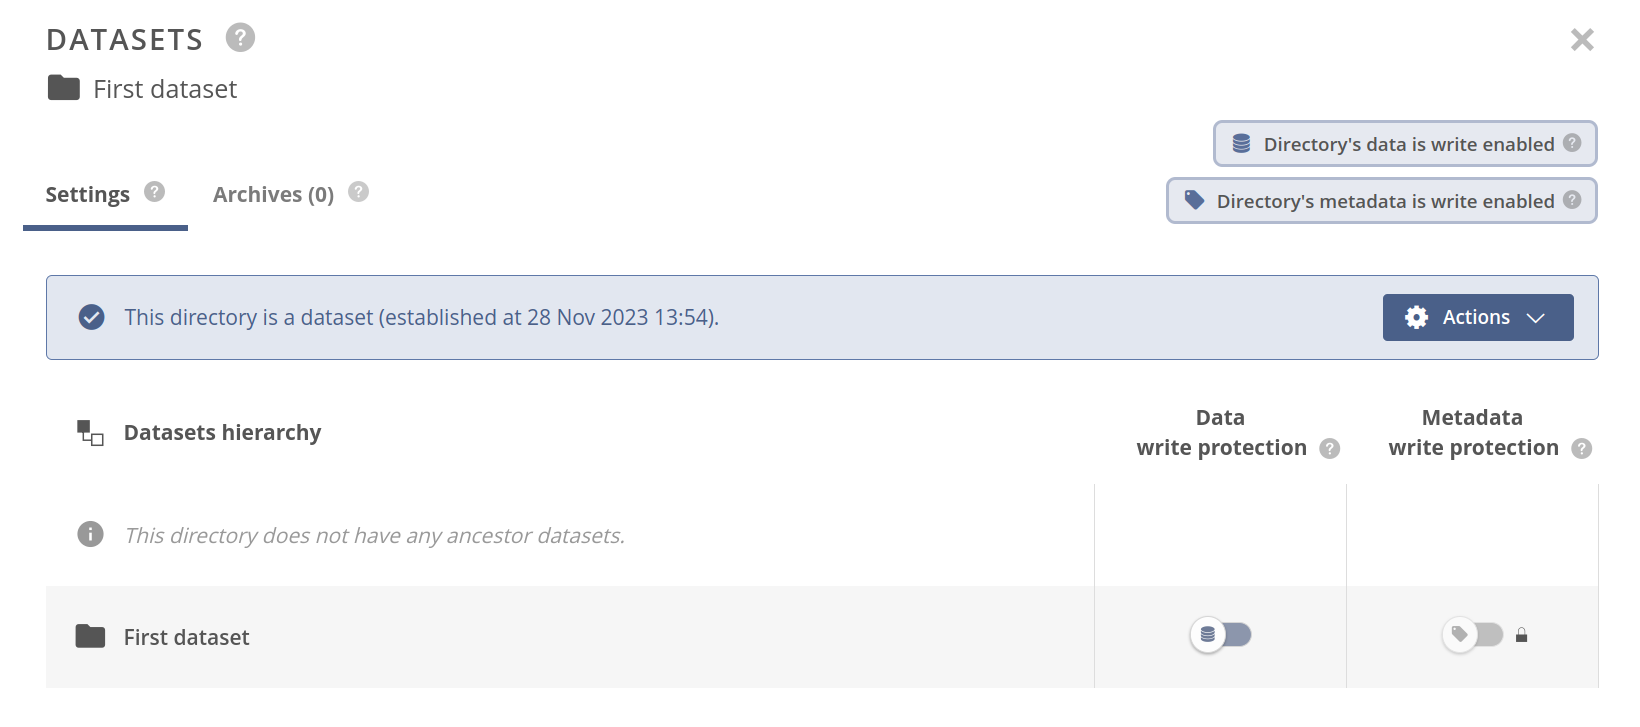
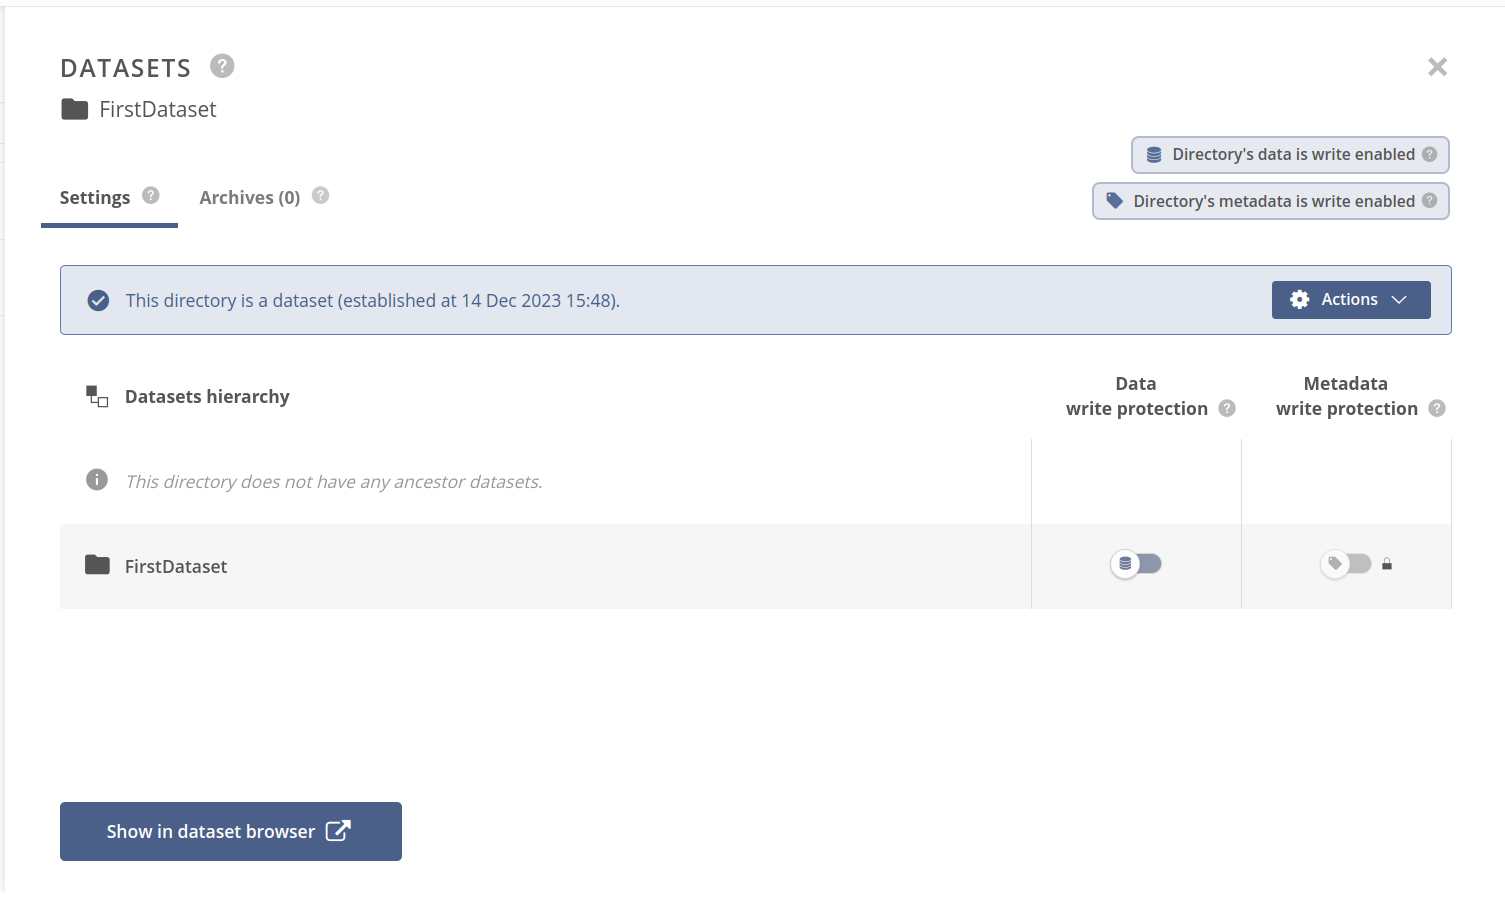
VFS-11563 Finished datasets docs

diff --git a/docs/user-guide/datasets.md b/docs/user-guide/datasets.md
@@ -1,7 +1,6 @@
 # Datasets
 
 [toc][]
-<!-- FIXME: zrobić ticket i podlinkować do napisania doksów nowej wersji widoku -->
 
 ## Overview
 
@@ -10,22 +9,25 @@ representing data collections relevant to them. They can be used to organize dat
 a space in a systematic way.
 
 Datasets offer additional features, compared to regular files and directories:
-- optional data and metadata write [protection][],
-- [dataset structure][hierarchy] tracking using the [dataset browser][Datasets, Archives tab],
-- ability to [create persistent snapshots][create archive] of the physical dataset contents —
-  [archives][].
+* optional data and metadata write [protection][],
+* [dataset structure][hierarchy] tracking using the [dataset browser][Datasets, Archives tab],
+* ability to [create persistent snapshots][create archive] of the physical dataset
+  contents — [archives][].
 
-Datasets can be nested, allowing users to compose arbitrary [hierarchical][hierarchy] structures.
+Datasets can be nested, allowing users to compose arbitrary [hierarchical][hierarchy]
+structures.
 
 ![dataset-hierarchy][]
 
-The diagram above shows the filesystem tree, where some of the directories are marked as datasets (_Experiment A_ and _Results_). Regular files also can be marked as datasets (_Statistics.csv_). The file or directory is marked as a dataset by [establishing][establishing datasets] the datasets on it.
+The diagram above shows the filesystem tree, where some of the directories are marked as
+datasets (_Experiment A_ and _Results_). Regular files also can be marked as datasets
+(_Statistics.csv_). The file or directory is marked as a dataset by
+[establishing][establishing datasets] the datasets on it.
 
 ## Establishing datasets
-<!-- FIXME: w archives mam wypunktowanie -->
-To establish a dataset, navigate to the [file browser][], open the context for a file or directory, and choose **Datasets**.
 
-<!-- FIXME: screeny powinny być z odpowiedniej wielkości ekranu i zooma - teraz są robocze -->
+To establish a dataset, navigate to the [file browser][], open the context for a file or
+directory, and choose **Datasets**.
 
 ![screen-file-menu-datasets][]
 
@@ -33,79 +35,95 @@ You will see a right-side dataset panel for the selected file or directory.
 
 ![screen-panel-establish-dataset][]
 
-In this example, the selected directory has no dataset established. Click on the **Establish dataset** button in the center of the panel to create a dataset.
+In this example, the selected directory has no dataset established. Click on the
+**Establish dataset** button in the center of the panel to create a dataset.
 
-<!-- FIXME: ten screen można ograniczyć do "This directory is a dataset..." -->
-The panel should now present a summary of the dataset established on the selected directory.
-<!-- FIXME: screen powinien zawierać dolny przycisk -->
-![screen-datasets-panel][]
+The panel should now present a summary of the dataset established on the selected
+directory.
+
+![screen-dataset-established-status][]
+
+## Datasets hierarchy
+
+Datasets can be established on files or directories lying inside other datasets. This way,
+a **hierarchy** of datasets can be built and then embraced to create [nested archives][].
+
+You can simply establish a dataset on a file or directory inside the other dataset using
+the datasets panel in the web file browser. Before establishment, the panel will show the
+existing hierarchy of the ancestor datasets. The **Establish** button is placed above the
+ancestor table.
+
+![screen-before-establishing-nested][]
 
 ## File browser datasets panel
 
-The datasets panel for a file or directory presents information about the dataset established on the file or directory and its optional dataset ancestors. The view consists of:
-<!-- FIXME: screen z podziałem na 1,2,3,4? -->
+The datasets panel for a file or directory presents information about the dataset
+established on the file/directory and its optional dataset ancestors. The view consists
+of:
 
-* **Settings** tab — containing [dataset actions][], dataset [hierarchy][] table with write [protection][] configuration,
+* **Settings** tab — containing dataset status and [actions][dataset actions], dataset
+  [hierarchy][] table with write [protection][] configuration,
 * **Archives** tab — containing dataset snapshots ([archives][]) browser,
-* **write protection badges** in the header — showing the effective write [protection][] of the selected file or directory,
-* **Show in dataset browser** button in the footer — navigating to space's [Datasets, Archives tab][], focusing on the selected dataset.
+* **write protection badges** in the header — showing the effective write [protection][]
+  of the selected file or directory,
+* **Show in dataset browser** button in the footer — navigating to space's [Datasets,
+  Archives tab][], focusing on the selected dataset.
+
+![screen-datasets-panel][]
 
 ### Dataset actions
-<!-- FIXME: tutaj dałbym większy screen z zaznaczeniem tej opcji -->
+
 You can perform various actions on the established dataset:
 
 ![screen-dataset-actions][]
-<!-- FIXME: linki dać na samych akcjach -->
+
 * **Copy ID** — copy the dataset ID into the clipboard,
-* **Create archive** — [create snapshot][create archive] of the dataset (an [archive][archives]),
+* **Create archive** — [create snapshot][create archive] of the dataset (an
+  [archive][archives]),
 * **Detach** — set dataset to [detached][detaching datasets] state,
 * **Remove** — [remove][removing datasets] the dataset feature from the file or directory.
 
-If the dataset is already in the [detached][detaching datasets] state, the **Detach** action becomes a **Re-attach** action which will change the dataset's state to **attached**.
+If the dataset is already in the [detached][detaching datasets] state, the **Detach**
+action becomes a **Re-attach** action which changes the dataset's state to **attached**.
 
 ### Dataset hierarchy table
 
-<!-- FIXME: ładny screen, na którym jest pokazana większa hierarchia i zmienione ustawienia protekcji; można pociąć ten screen -->
+The dataset hierarchy table shows a list of the ancestor directories having datasets
+established (and not [detached][detaching datasets]). The first row of the table shows a
+summary of the **ancestor datasets** — you can click on it to show or hide the list. If
+there are any ancestors, the **Data/Metadata write protection** columns for the first row,
+show effective [protection][] status inherited from the ancestors.
 
-The dataset hierarchy table shows a list of the ancestor directories having datasets established (and not [detached][detaching datasets]). The first row of the table shows a summary of the ancestor datasets — you can click on it to show or hide the list. If there are any ancestors, the **Data/Metadata write protection** columns for the first row, show effective [protection][] status inherited from the ancestors.
+![screen-protection-inherited][]
 
-Rows for the ancestors contain links to the directories with datasets established and allow configuring the protection of each. The last row of the table shows information about the dataset established on the current file or directory and allows configuring the direct protection of the datasets.
+Rows for the ancestors contain links to the directories with datasets established and
+allow configuring the protection of each. The last row of the table shows information
+about the dataset established on the current file or directory and allows configuring the
+direct protection of the datasets.
 
-Note, that the file or directory **effective** protection is presented using the badges at the right side of the panel header — it is a derivate from both the ancestor protection and direct protection.
+::: tip NOTE
+File's or directory's **effective** protection is presented using the badges at
+the upper-right side of the panel — it is a result of the ancestors and direct
+protection sum.
+:::
 
 ### Archives tab
 
-<!-- FIXME: screen taba i widoku -->
-<!-- FIXME: link do dokumentacji -->
+The archives tab label displays the current number of snapshots created from the selected
+dataset. Inside the tab, you will find an [archives list][] for the dataset — explained in
+detail in the [archives][] documentation.
 
-The archives tab label displays the current number of snapshots created from the selected dataset. Inside the tab, you will find an [archives list][] for the dataset — explained in detail in the archives tab documentation.
-
-## Datasets hierarchy
-<!-- FIXME: to można przenieść w okolice Overview, blisko diagramu, bo w tej chwili dataset hierarchy table jest przed zdefiniowaniem czym jest hierarchia -->
-
-<!-- FIXME: datasety tworzą hierarchię - wystarczy wejść do środka i na pliku lub katalogu otworzyć panel datasetów i dać establish; wtedy w tabeli mamy dodatkowe rzeczy w hierarchii -->
-
-<!-- FIXME: link do nested archives -->
-
-Datasets can be established on files or directories lying inside other datasets. This way,
-a **hierarchy** of datasets can be built and then embraced to create **nested archives**.
-
-<!-- FIXME: diagram, na którym pokazujemy z lewej strony drzewo datasetów a po prawej kawałek screena z widoku hierarchii; na górze mogą być nagłówki "tabeli" - filesystem tree | dataset tree -->
-
-You can simply establish a dataset on a file or directory inside the other dataset using the datasets panel in the web file browser. Before establishment, the panel will show the existing hierarchy of the ancestor datasets. The **Establish** button is placed above the ancestor table.
-
-<!-- FIXME: screen pokazujący panel przed establishnięciem -->
-
+![screen-archives-tab][]
 
 ## Data and metadata write protection
 
 The lifecycle of a dataset can look like the following:
-- acquisition — creating and collecting,
-- consolidation and aggregation,
-- processing/analysis,
-- annotation,
-- publishing/sharing,
-- archiving.
+* acquisition — creating and collecting,
+* consolidation and aggregation,
+* processing/analysis,
+* annotation,
+* publishing/sharing,
+* archiving.
 
 Quite often, there is a need to apply certain procedures at different stages of data
 curation. For example, at the annotation stage, the dataset managers may wish to freeze
@@ -116,28 +134,32 @@ has been assigned a persistent identifier and referenced in scientific works.
 To prevent changes in the dataset, users can set temporary **protection** flags, which
 cause the files and directories in the dataset to be protected from, accordingly:
 <!-- FIXME: napisać szczegółowo? -->
-- **Data protection** — modifying their content or being deleted,
-- **Metadata protection** — modifying their metadata, such as custom JSON/RDF/xattr
+* **Data protection** — modifying their content or being deleted,
+* **Metadata protection** — modifying their metadata, such as custom JSON/RDF/xattr
   metadata, permissions, or ACLs.
 
-The protection flags are inherited by children datasets — datasets lower in the [hierarchy][]
-tree have protection at least as strong as their ancestors.
+The protection flags are inherited by children datasets — datasets lower in the
+[hierarchy][] tree have protection at least as strong as their ancestors.
 
-You can modify protection flags in the [dataset hierarchy table][] of the file or directory datasets panel. When the file or directory has the protection enabled, the **Datasets** badge for the file has additional icons representing the applied protection.
+You can modify protection flags in the [dataset hierarchy table][] of the file or
+directory datasets panel. When the file or directory has the protection enabled, the
+**Datasets** badge for the file has additional icons representing the applied protection.
 
-<!-- FIXME: screen z badge'a -->
-
-<!-- FIXME: jak będzie dokumentacja nowego widoku datasets, archives to napisać, że tam można też otwierać panel zmian protekcji -->
+![screen-data-protected-dir][]
 
 ## Creating snapshots — archives
 
-A snapshot of a dataset created at a certain point in time is called an [archive][archives].
+A snapshot of a dataset created at a certain point in time is called an
+[archive][archives].
 
 Archives are immutable and stored within a space, lying in a special directory detached
 from the regular file tree. They can be accessed using the specialized browser of
 datasets and archives.
 
-You can create archives using the **Create archive** [action][dataset actions] or in the archives tab of the [file browser datasets panel][].
+You can create archives using the **Create archive** [action][dataset actions] or in the
+archives tab of the [file browser datasets panel][].
+
+See [this][archives] chapter for more details.
 
 <!-- FIXME: link do opisu archives view -->
 
@@ -146,6 +168,8 @@ You can create archives using the **Create archive** [action][dataset actions] o
 ## Space "Datasets, Archives" tab
 
 🚧 Under construction 🚧
+
+<!-- TODO: VFS-11610 Write Datasets, Archive tab docs when new datasets "Tree" view will be finished -->
 
 ## Detaching datasets
 
@@ -161,10 +185,6 @@ deleted.
 If the original file/directory is not deleted, the dataset can be later **re-attached**.
 This can be done using the **Re-attach** action in the [dataset actions][].
 
-<!-- FIXME: screen akcji re-attachowania -->
-
-<!-- FIXME: napisać o re-attachowaniu z poziomu Datasets, Archives -->
-
 ## Removing datasets
 
 Removing a dataset is essentially disabling the dataset-related features for a file or
@@ -174,6 +194,8 @@ tree][hierarchy].
 While detaching a dataset is not a harmful operation from the archive's perspective,
 deleting the entire dataset is, so **the dataset cannot be removed until it has any
 archives**.
+
+For more information about deleting archives, refer to [this page][deleting archives].
 
 <!-- FIXME: screen z "remove not available" -->
 
@@ -210,11 +232,15 @@ actions][].
 
 [file browser datasets panel]: #file-browser-datasets-panel
 
-[file browser]: web-file-browser.md
+[file browser]: ./web-file-browser.md
 
-[archives]: archives.md
+[archives]: ./archives.md
 
-[archives list]: archives.md#browsing-archives
+[nested archives]: ./archives.md#nested-archives
+
+[archives list]: ./archives.md#browsing-archives
+
+[deleting archives]: ./archives.md#deleting-archives
 
 [dataset-hierarchy]: ../../images/user-guide/datasets/dataset-hierarchy.svg
 
@@ -224,4 +250,14 @@ actions][].
 
 [screen-datasets-panel]: ../../images/user-guide/datasets/datasets-panel.png
 
+[screen-dataset-established-status]: ../../images/user-guide/datasets/dataset-established-status.png
+
 [screen-dataset-actions]: ../../images/user-guide/datasets/dataset-actions.png
+
+[screen-protection-inherited]: ../../images/user-guide/datasets/protection-inherited.png
+
+[screen-before-establishing-nested]: ../../images/user-guide/datasets/before-establishing-nested.png
+
+[screen-data-protected-dir]: ../../images/user-guide/datasets/data-protected-dir.png
+
+[screen-archives-tab]: ../../images/user-guide/datasets/archives-tab.png

diff --git a/docs/user-guide/archives.md b/docs/user-guide/archives.md
@@ -2,6 +2,8 @@
 
 [toc][]
 
+<!-- TODO: VFS-11610 Add info about Datasets, Archive tab when new datasets "Tree" view will be finished -->
+
 ## Overview
 
 <!-- FIXME: verify the OAIS introduction correctness -->
@@ -96,9 +98,9 @@ reason information.
 
 ### Cancelling archivisation
 
-Archivisation process can be cancelled.
+The archivisation process can be cancelled.
 
-1. Open the context menu for archive in the **Building** state and choose **Cancel**.
+1. Open the context menu for an archive in the **Building** state and choose **Cancel**.
 
 ![screen-cancel-menu][]
 
@@ -141,7 +143,6 @@ The view consists of:
 * **archives/files list** — showing the
   * dataset archives when you are in the dataset root,
   * or the [files][] inside the archive if you enter some archive.
-<!-- FIXME: wyjaśnić kolumny? -->
 
 You can open the [context menu][archive actions] for an
 archive or [browse][files] its contents by double-clicking on it.
@@ -162,7 +163,6 @@ An archive item in the browser offers the following context actions:
 
 ![screen-archive-menu][]
 
-<!-- FIXME: linki do sekcji o archive details -->
 * **Properties** — opening the archive properties tab in the [archive details panel][],
   which shows the basic info about archive configuration,
 * **Edit description** — editing the archive description,

diff --git a/docs/glossary.md b/docs/glossary.md
@@ -4,12 +4,15 @@
 
 <!-- TODO: VFS-7218 fill missing entries -->
 
-<!-- FIXME: dodać definicje dataset i archive? -->
-
 ## ACL
 
 Mechanism for granting and denying access to files and directories.
 Learn more [here][1].
+
+## Archive
+
+Snapshot of a [dataset][] created at a certain point in time.
+Learn more [here][archive-more].
 
 ## Auto-cleaning
 
@@ -44,6 +47,12 @@ files in multiple [spaces][3] and submit it to indices, which can be
 later browsed and queried. Logically divided into separate [harvesters][7]
 that can have different configuration and source spaces.
 Learn more [here][8].
+
+## Dataset
+
+File or directory marked by space users as representing data collections
+relevant to them. They can be used to organize data in a space in a systematic way and add
+an ability to create persistent [snapshots][archive]. Learn more [here][dataset-more].
 
 ## File ID
 
@@ -260,3 +269,11 @@ Tokens are a universal way of accessing Onedata interfaces: [*REST API*][35],
 [37]: #oneclient
 
 [38]: user-guide/tokens.md
+
+[archive]: #archive
+
+[dataset]: #dataset
+
+[archive-more]: user-guide/archives.md
+
+[dataset-more]: user-guide/datasets.md
